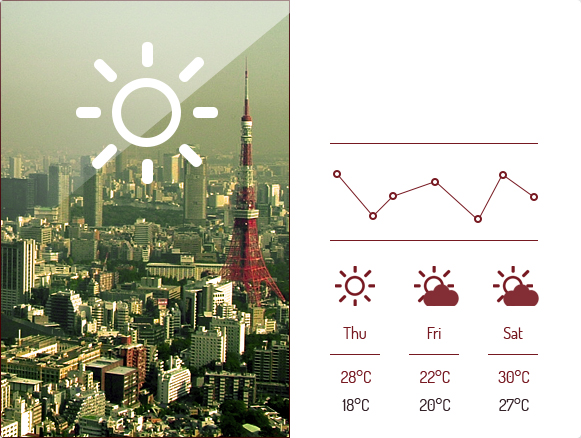
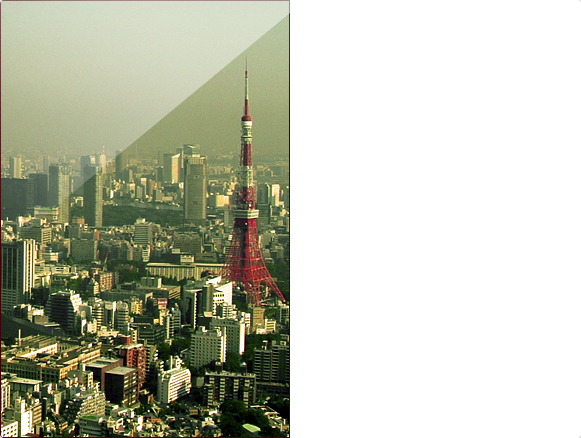
css-sprites added

diff --git a/css/styles.css b/css/styles.css
@@ -1,7 +1,18 @@
-@@font-face {
-  font-family: 'Dosis', sans-serif;
-  src: url("../fonts/dosisextralight.ttf"),
-       url("../fonts/dosisextralight.woff");
+/* latin-ext */
+@font-face {
+  font-family: 'Dosis';
+  font-style: normal;
+  font-weight: 100;
+  src: local('Dosis Regular'), local('Dosis-Regular'), url(https://fonts.gstatic.com/s/dosis/v6/RlBXAIuiO5GvH9-0-JbBlw.woff2) format('woff2');
+  unicode-range: U+0100-024F, U+1E00-1EFF, U+20A0-20AB, U+20AD-20CF, U+2C60-2C7F, U+A720-A7FF;
+}
+/* latin */
+@font-face {
+  font-family: 'Dosis';
+  font-style: normal;
+  font-weight: 100;
+  src: local('Dosis Regular'), local('Dosis-Regular'), url(https://fonts.gstatic.com/s/dosis/v6/4hYyXH_8WmbBLamf6WjLwg.woff2) format('woff2');
+  unicode-range: U+0000-00FF, U+0131, U+0152-0153, U+02C6, U+02DA, U+02DC, U+2000-206F, U+2074, U+20AC, U+2212, U+2215;
 }
 
 body{
@@ -42,7 +53,6 @@ img {
 }
 .sunny {
   font-size: 34px;
-  font-weight: 200;
   font-family: 'Dosis', sans-serif;
   color: rgb(255, 255, 255);
   line-height: 1.333;
@@ -55,16 +65,17 @@ img {
   z-index: 270;
 }
 .tokyo_wen{
-  font-size: 17px;
-  font-weight: 200;
+  font-size: 21px;
+  word-spacing: 1px;
+  letter-spacing: 0px;
   font-family: 'Dosis', sans-serif;
   color: rgb(255, 255, 255);
   line-height: 2.182;
   position: absolute;
-  left: 31px;
+  left: 33px;
   top: 33px;
-  width: 220px;
-  height: 23px;
+  width: 245px;
+  height: 25px;
   z-index: 28;
 }
 .temperature{
@@ -73,12 +84,68 @@ img {
   font-weight: 200;
   font-style: normal;
   color: rgb(119, 25, 33);
-  line-height: 0.178;
   text-align: center;
   position: absolute;
-  left: 433px;
-  top: 150px;
-  width: 204px;
+  left: 340px;
+  top: 95px;
+  width: 404px;
   height: 78px;
   z-index: 29;
+}
+
+.icon{
+	background: url(../img/icons/sprites.png) no-repeat;
+}
+
+.sun{
+	background-position: -51px -4px ;
+	width: 40px;
+	height: 40px;
+}
+
+
+.cloud{
+	background-position: -4px -9px ;
+	width: 36px;
+	height: 22px;
+}
+
+.sun.day1{
+  position: absolute;
+  top: 348px;
+  left: 446px;
+}
+
+.sun.day2{
+  position: absolute;
+  top: 368px;
+  left: 196px;
+}
+.sun.day3{
+  position: absolute;
+  top: 368px;
+  left: 300px;
+}
+
+.cloud.day2{
+  position: absolute;
+  top: 364px;
+  left: 533px;
+}
+
+.cloud.day3{
+  position: absolute;
+  top: 364px;
+  left: 613px;
+}
+
+.sun_white{
+	background-position: 0 -98px ;
+	width: 142px;
+	height: 142px;
+
+.sun_white{
+  position: absolute;
+  top: 30px;
+  left:100px;
 }

diff --git a/index.html b/index.html
@@ -6,9 +6,6 @@
   <meta http-equiv="X-UA-Compatible" content="ie=edge">
   <link rel="stylesheet" href="css/styles.css">
 
-  <link rel="stylesheet" href="fonts/Dosis-ExtraLight.otf">
-  <link rel="stylesheet" href="fonts/Dosis-Light.otf">
-
   <title>Tokyo</title>
 
   <script>
@@ -19,19 +16,35 @@
 <body>
   <section>
     <img src = "img/div_tokyo.jpg" alt = "Weather in Tokyo" />
-
-  <section class = "rect" id = "rect_brown">
+    <span class = "sun_white"></span>
+  <div class = "rect" id = "rect_brown">
     <span class = "sunny">
       Sunny
     </span>
-  </section>
-    <section class = "rect" id = "rect_red">
+  </div>
+    <div class = "rect" id = "rect_red">
       <span class = "tokyo_wen">
         Tokyo - Wednesday, July 31
       </span>
-    </section>
-    <span class = "temperature">
-      28&#186;C
+    </div>
+    <div class = "temperature">
+      28 &#176;C
+    </div>
+
+    <div class = "graph icon">
+
+    </div>
+
+    <span class = "icon sun day1">
+
+    </span>
+
+    <span  class = "icon sun cloud day2">
+
+    </span>
+
+    <span  class = "icon sun cloud day3">
+
     </span>
   </section>
 </body>
